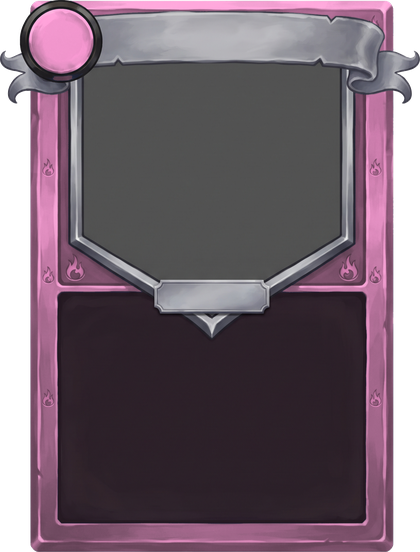
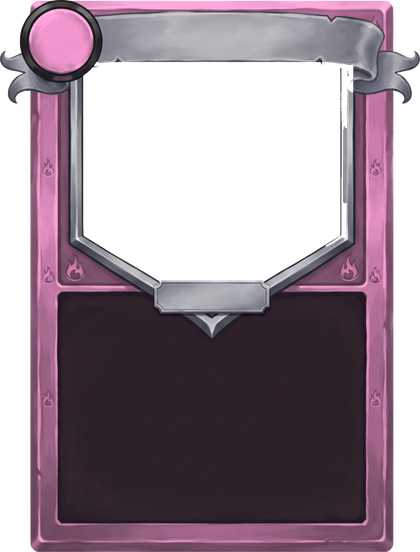
Cadres : fenêtre découpée, l'illustration passe sous le cadre et ne déborde plus
Claude-Session: https://claude.ai/code/session_01F5LB1yqDFW3yaDFxgXqtEv

Changed region(s): [[0.1857, 0.0924, 0.8667, 0.5236]]

diff --git a/src/ui/style.css b/src/ui/style.css
@@ -330,11 +330,14 @@ img.sprite, .roster img { image-rendering: pixelated; }
 .card.has-frame .card-inner { background: none; box-shadow: none; }
 /* Cadre Gemini : l'image dépasse un peu de la carte (bouts du bandeau) ; zones calées sur ce cadre */
 .card.has-frame .card-inner::before {
-  content: ''; position: absolute; left: -12.7px; top: -0.3px; width: 173.9px; height: 210.6px; z-index: 0;
+  content: ''; position: absolute; left: -12.7px; top: -0.3px; width: 173.9px; height: 210.6px; z-index: 1;
   background: var(--frame) 0 0 / 100% 100% no-repeat; filter: drop-shadow(0 6px 10px rgba(0, 0, 0, 0.55)); pointer-events: none;
 }
-.card.has-frame .card-inner > * { z-index: 1; }
-.card.has-frame .card-window { left: 16.5px; right: 16.5px; top: 23px; height: 84px; }
+.card.has-frame .card-inner > * { z-index: 2; }
+/* L'illustration passe SOUS le cadre (fenêtre découpée) : elle ne déborde jamais */
+.card.has-frame .card-window { z-index: 0; }
+.card.has-frame .card-art { clip-path: none; }
+.card.has-frame .card-window { left: 18px; right: 15px; top: 22px; height: 88px; clip-path: polygon(0 0, 100% 0, 100% 80%, 50% 100%, 0 80%); }
 .card.has-frame .card-banner { top: 5px; height: 18px; left: 6px; right: -2px; }
 .card.has-frame .card-cat { top: 105px; }
 .card.has-frame .card-text { left: 13px; right: 13px; top: 130px; bottom: 11px; }
